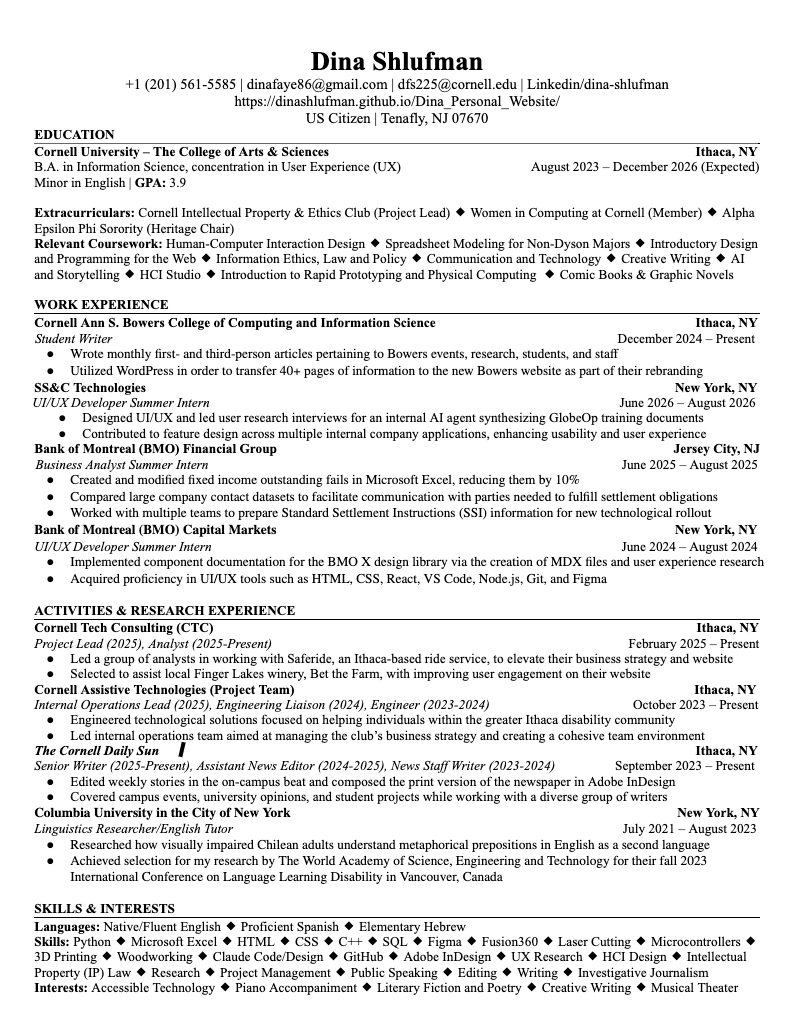
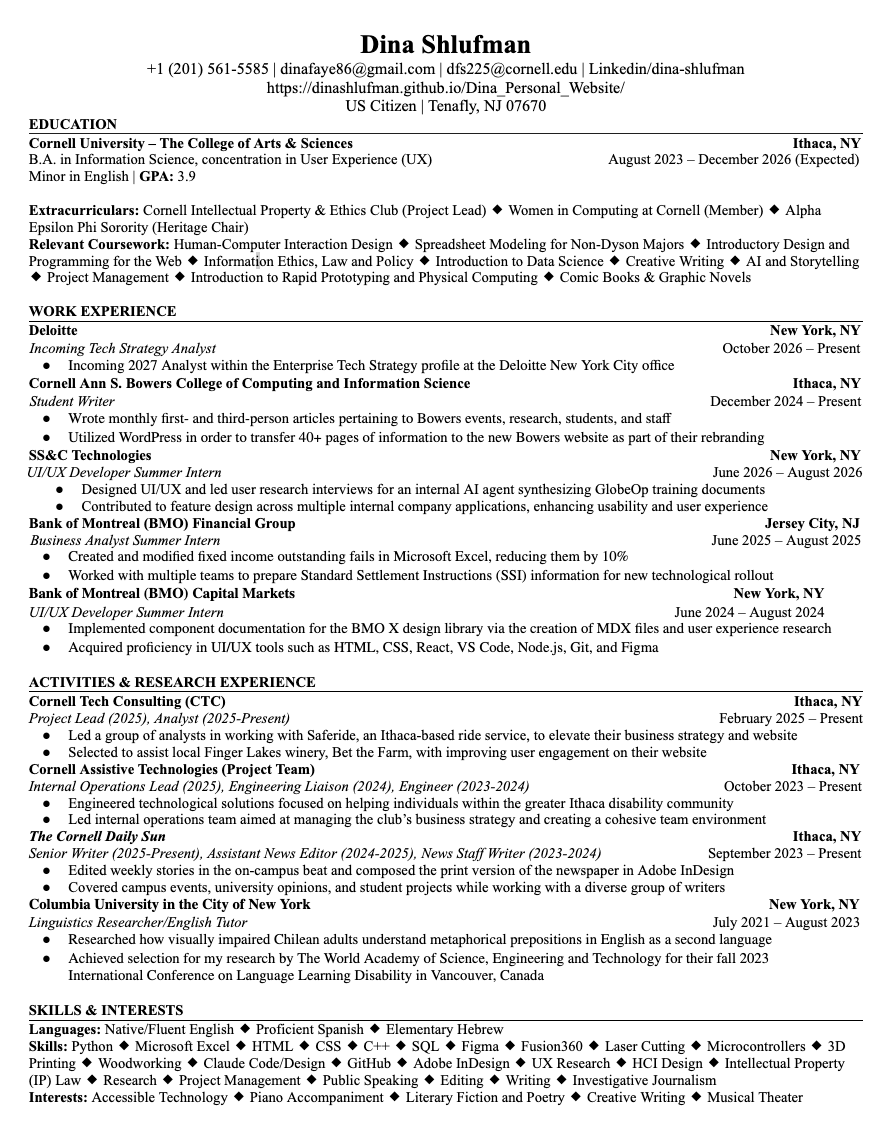
Add Deloitte role, update activities, courses, and resume

Changed region(s): [[0.0312, 0.0303, 0.9975, 0.9706]]

diff --git a/index.html b/index.html
@@ -150,13 +150,13 @@
         <div class="education-tags">
           <span>Human-Computer Interaction Design</span>
           <span>Spreadsheet Modeling for Non-Dyson Majors</span>
-          <span>Introductory Design &amp; Programming for the Web</span>
-          <span>Information Ethics, Law &amp; Policy</span>
-          <span>Communication &amp; Technology</span>
+          <span>Introductory Design and Programming for the Web</span>
+          <span>Information Ethics, Law and Policy</span>
+          <span>Introduction to Data Science</span>
           <span>Creative Writing</span>
-          <span>AI &amp; Storytelling</span>
-          <span>HCI Studio</span>
-          <span>Rapid Prototyping &amp; Physical Computing</span>
+          <span>AI and Storytelling</span>
+          <span>Project Management</span>
+          <span>Introduction to Rapid Prototyping and Physical Computing</span>
           <span>Comic Books &amp; Graphic Novels</span>
         </div>
       </div>
@@ -169,6 +169,20 @@
       <h2 class="section-title">My Professional Work Experience</h2>
 
       <div class="timeline">
+        <div class="timeline-item reveal">
+          <div class="timeline-dot"></div>
+          <div class="timeline-content">
+            <div class="timeline-head">
+              <h3>Incoming Tech Strategy Analyst</h3>
+              <span class="timeline-date">Oct 2026 – Present</span>
+            </div>
+            <p class="timeline-org">Deloitte &middot; New York, NY</p>
+            <ul>
+              <li>Incoming 2027 Analyst within the Enterprise Tech Strategy profile at the Deloitte New York City office.</li>
+            </ul>
+          </div>
+        </div>
+
         <div class="timeline-item reveal">
           <div class="timeline-dot"></div>
           <div class="timeline-content">
@@ -241,7 +255,8 @@
       <div class="involve-grid">
         <div class="involve-card reveal">
           <h3>Cornell Tech Consulting</h3>
-          <span class="involve-role">Project Lead (2025), Analyst &middot; Feb 2025 – Present</span>
+          <span class="involve-date">February 2025 – Present</span>
+          <span class="involve-role">Project Lead (2025), Analyst (2025–Present)</span>
           <ul>
             <li>Led a group of analysts in working with Saferide, an Ithaca-based ride service, to elevate their business strategy and website.</li>
             <li>Selected to assist local Finger Lakes winery, Bet the Farm, with improving user engagement on website.</li>
@@ -250,7 +265,8 @@
         </div>
         <div class="involve-card reveal">
           <h3>Cornell Assistive Technologies</h3>
-          <span class="involve-role">Internal Operations Lead (2025), Engineering Liaison (2024), Engineer (2023–24) &middot; Oct 2023 – Present</span>
+          <span class="involve-date">October 2023 – Present</span>
+          <span class="involve-role">Internal Operations Lead (2025), Engineering Liaison (2024), Engineer (2023–2024)</span>
           <ul>
             <li>Engineered technological solutions for the greater Ithaca disability community.</li>
             <li>Led internal operations and team culture for the project team.</li>
@@ -258,7 +274,8 @@
         </div>
         <div class="involve-card reveal">
           <h3>The Cornell Daily Sun</h3>
-          <span class="involve-role">Senior Writer (2025–Present), Assistant News Editor (2024–25), Staff Writer (2023–24) &middot; Sept 2023 – Present</span>
+          <span class="involve-date">September 2023 – Present</span>
+          <span class="involve-role">Senior Writer (2025–Present), Assistant News Editor (2024–2025), Staff Writer (2023–2024)</span>
           <ul>
             <li>Edited and wrote weekly stories on the campus beat, covering campus events, university opinion, and student projects.</li>
             <li>Composed the print edition in Adobe InDesign.</li>
@@ -266,7 +283,8 @@
         </div>
         <div class="involve-card reveal">
           <h3>Linguistics Research, Columbia University</h3>
-          <span class="involve-role">Linguistics Researcher / English Tutor &middot; Jul 2021 – Aug 2023</span>
+          <span class="involve-date">July 2021 – August 2023</span>
+          <span class="involve-role">Linguistics Researcher / English Tutor</span>
           <ul>
             <li>Researched how visually-impaired Chilean adults understand metaphorical prepositions in English as a second language.</li>
             <li>Selected by The World Academy of Science, Engineering and Technology for its Fall 2023 International Conference on Language Learning Disability in Vancouver, Canada.</li>

diff --git a/style.css b/style.css
@@ -415,6 +415,13 @@ a.nav-cta {
   color: var(--purple-600);
   margin-bottom: 12px;
 }
+.involve-date {
+  display: block;
+  font-size: 0.85rem;
+  font-weight: 600;
+  color: var(--rose-deep);
+  margin-bottom: 4px;
+}
 .involve-card ul {
   margin: 0;
   padding-left: 20px;
@@ -803,6 +810,7 @@ a.nav-cta {
 [data-theme="dark"] .involve-role,
 [data-theme="dark"] .eyebrow,
 [data-theme="dark"] .timeline-date,
+[data-theme="dark"] .involve-date,
 [data-theme="dark"] .current-read-label {
   color: var(--rose-soft);
 }
